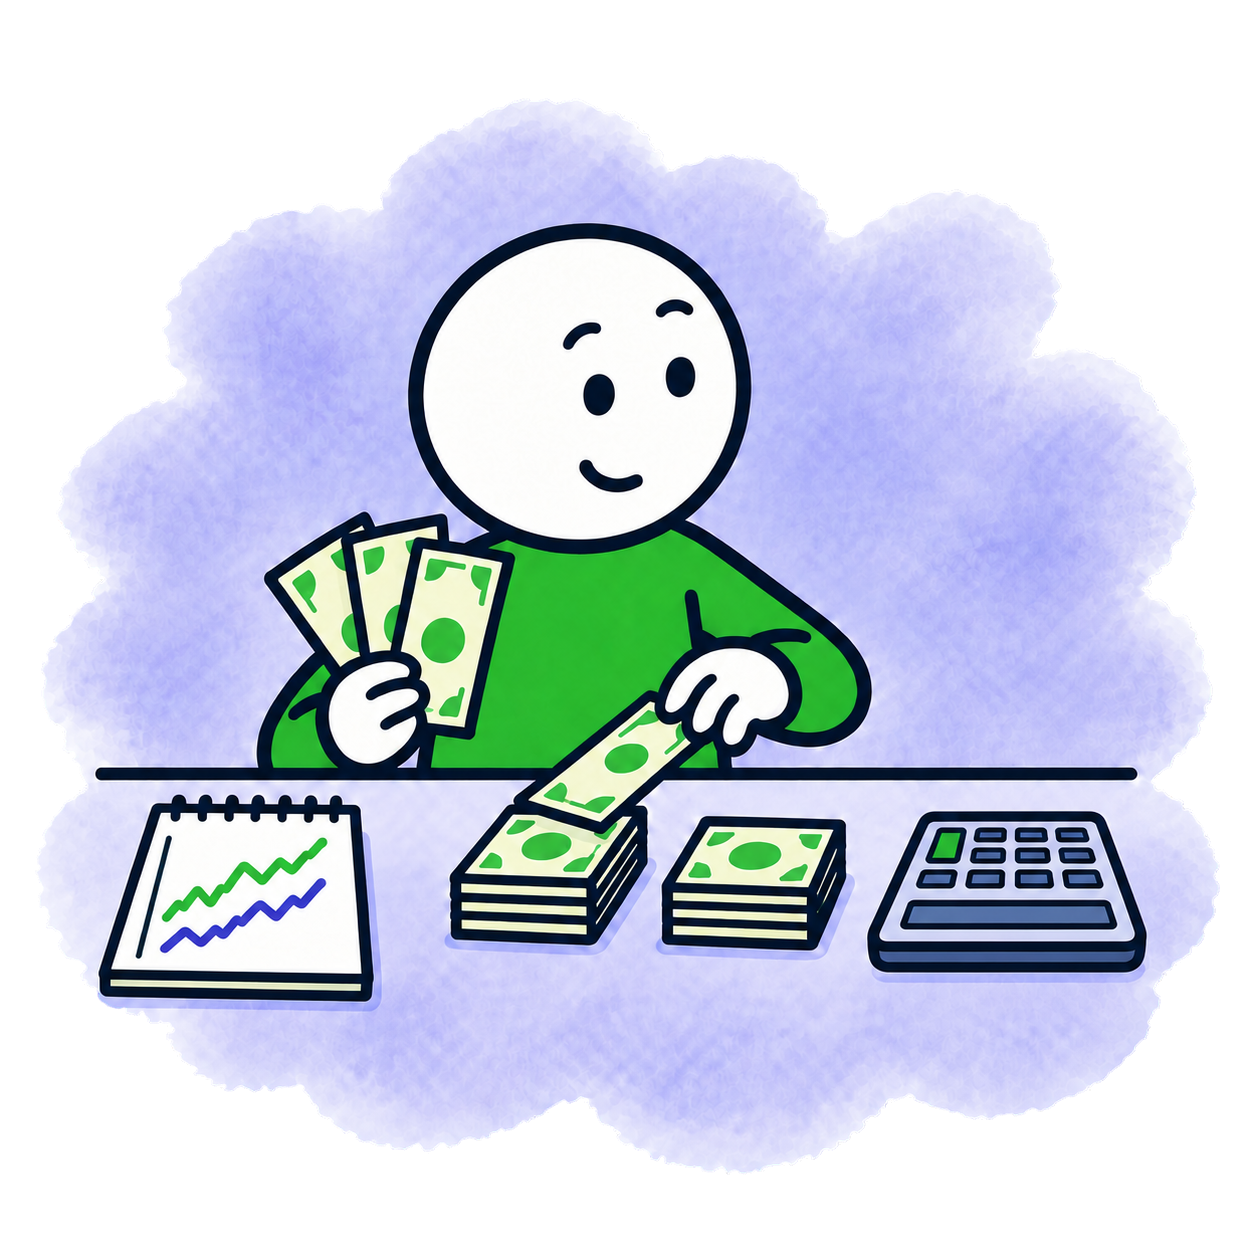
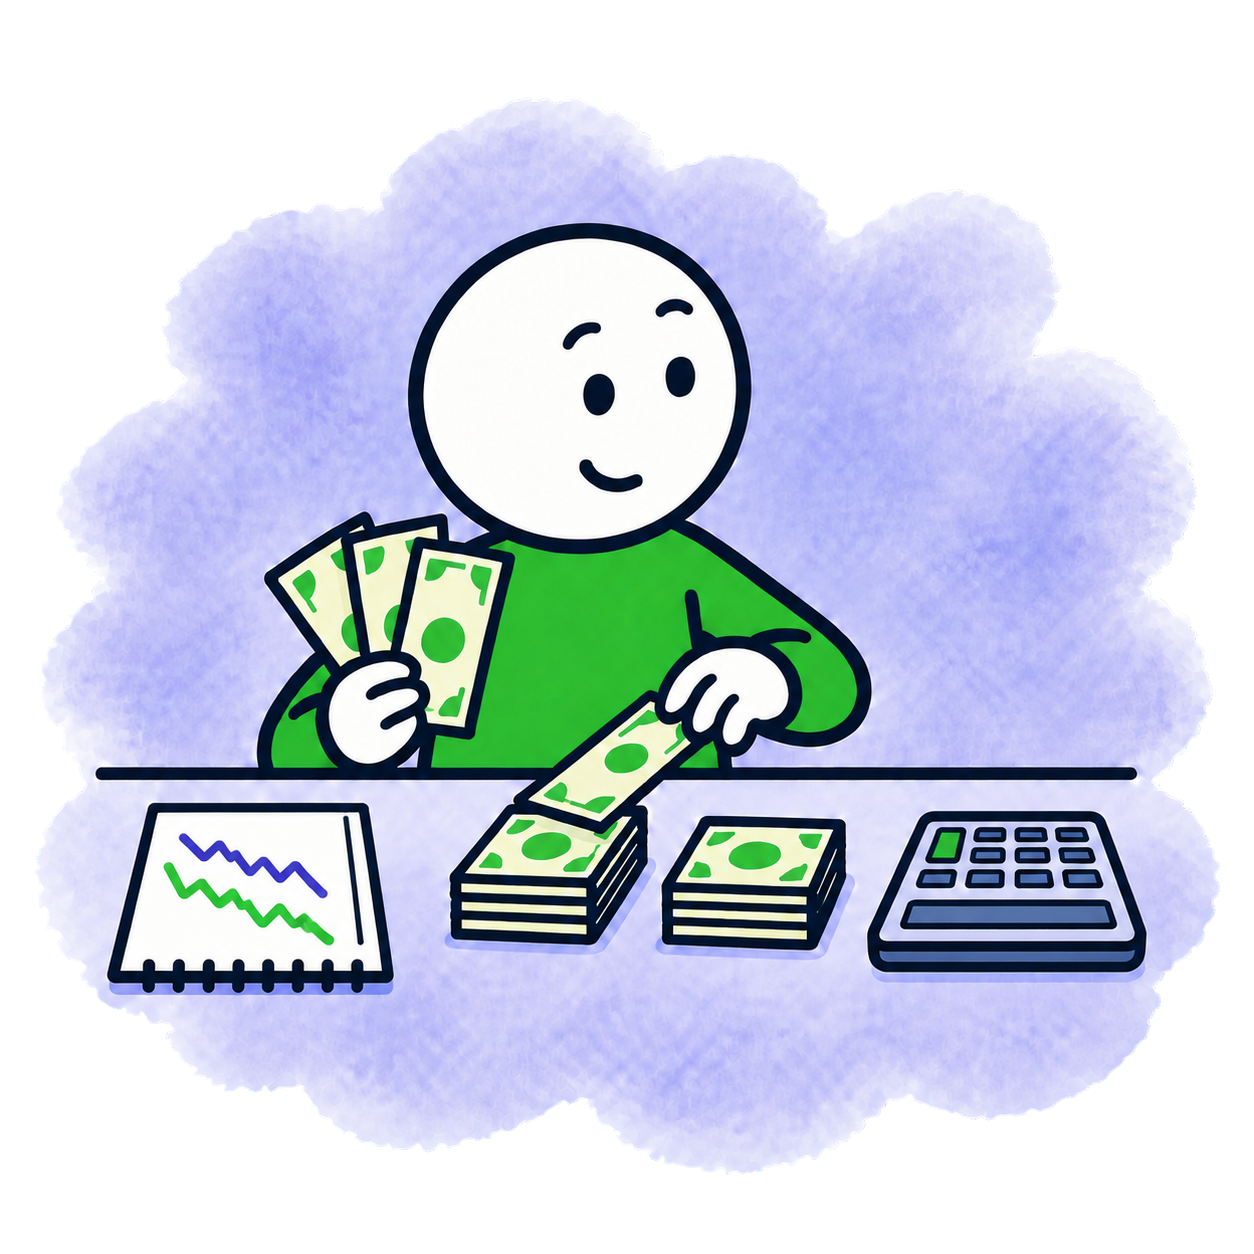
Orient the stock course notepad toward the learner
Refs #401

diff --git a/_docs/design/references/course-variety-revision.md b/_docs/design/references/course-variety-revision.md
@@ -158,6 +158,37 @@ uv run --script .agents/skills/website-illustrations/scripts/finish_chroma.py \
   --solid-key-chroma 230 --key-noise-alpha 0.05
 ```
 
+### Notepad-orientation correction
+
+The notepad also faced the viewer. This edit keeps the corrected calculator
+unchanged and rotates only the notepad's working orientation: chart upright for
+the seated learner, spiral binding nearest the viewer.
+
+- Raw output: `.tmp/course-illustration-variety-20260915/sma-notepad-orientation/source-keyed.png`
[1 lines of base64/hex data omitted]
+- Original tool output: `/home/alexey/.codex/generated_images/01a0a479-3d2f-7991-9ca7-bf120c70bac4/exec-117a93e7-4c23-4de1-ba62-dde1a6bd308d.png`
+- Built-in image-generation backend: unverified (the tool exposes no model selector or reliable version metadata)
+
+```text
+Use case: precise-object-edit
+Asset type: Stock Market Analytics Zoomcamp light-theme website illustration.
+Input images: Image 1 is the exact composition and registration anchor to edit. Image 2 guides only the established DataTalks.Club drawing style and clean watercolor edge.
+Primary request: Rotate ONLY the chart notepad on the viewer-left by exactly 180 degrees in the tabletop plane so it faces the seated learner behind the table. Keep the notepad in the same viewer-left location and at the same size. The spiral binding must be on the notebook edge farthest from the learner and closest to the viewer, at the BOTTOM of the image. The chart must be upright from the learner's viewpoint and therefore visually upside-down from the viewer's viewpoint. Rotate the green and indigo chart lines together with the page; do not redraw them upright for the viewer.
+Preserve exactly: the corrected calculator on viewer-right, with its keypad nearest the learner and its display nearest the viewer; the learner's face, body, green shirt, both arms and hands, money-counting pose, bills, two money stacks, table line, all positions except the notepad orientation, palette, navy outlines, lavender watercolor wash, canvas dimensions and margins. Do not move or rotate the calculator. Do not mirror the full image.
+Scene/backdrop: Return the complete illustration on a perfectly uniform opaque saturated #ff00ff exterior chroma backdrop extending to all four canvas borders; no transparency simulation, checkerboard, white rectangle, gradient, or texture outside the artwork.
+Style/medium: clean hand-drawn navy ink with simple opaque fills and restrained broad watercolor variation. Clean native image quality.
+Constraints: Change only the notepad orientation. Exactly one calculator and one notepad. No text, symbols, new objects, extra limbs, compression blocks, JPEG artifacts, ringing, grain, speckles, cellular facets, polygon networks, malformed fingers, halos, or magenta inside the artwork.
+```
+
+Finishing command:
+
+```sh
+uv run --script .agents/skills/website-illustrations/scripts/finish_chroma.py \
+  .tmp/course-illustration-variety-20260915/sma-notepad-orientation/source-keyed.png \
+  .tmp/course-illustration-variety-20260915/sma-notepad-orientation/final \
+  --solid-key-chroma 230 --key-noise-alpha 0.05
+```
+
 Pixel verification uses:
 
 ```sh
